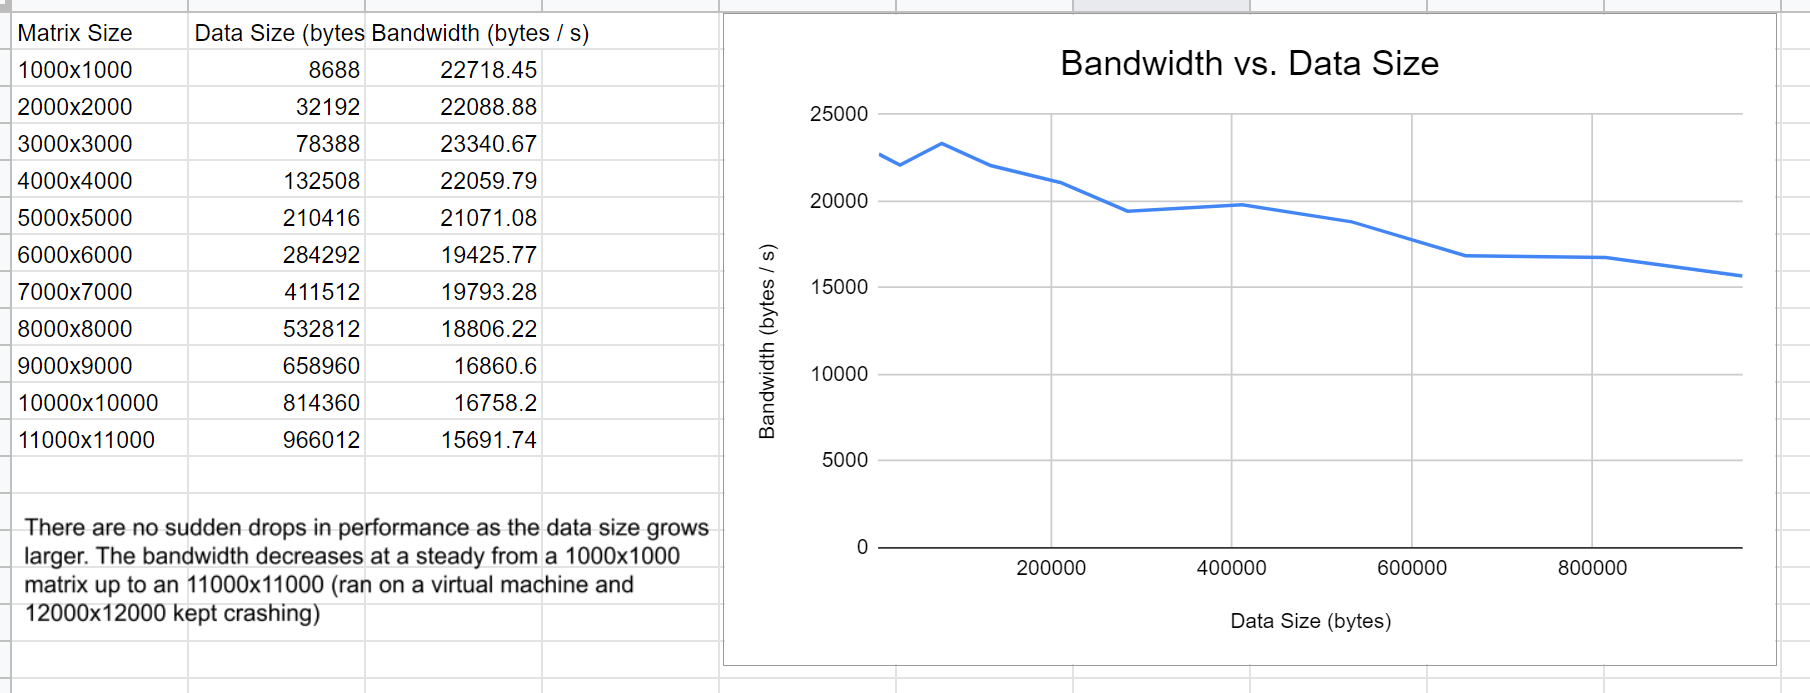
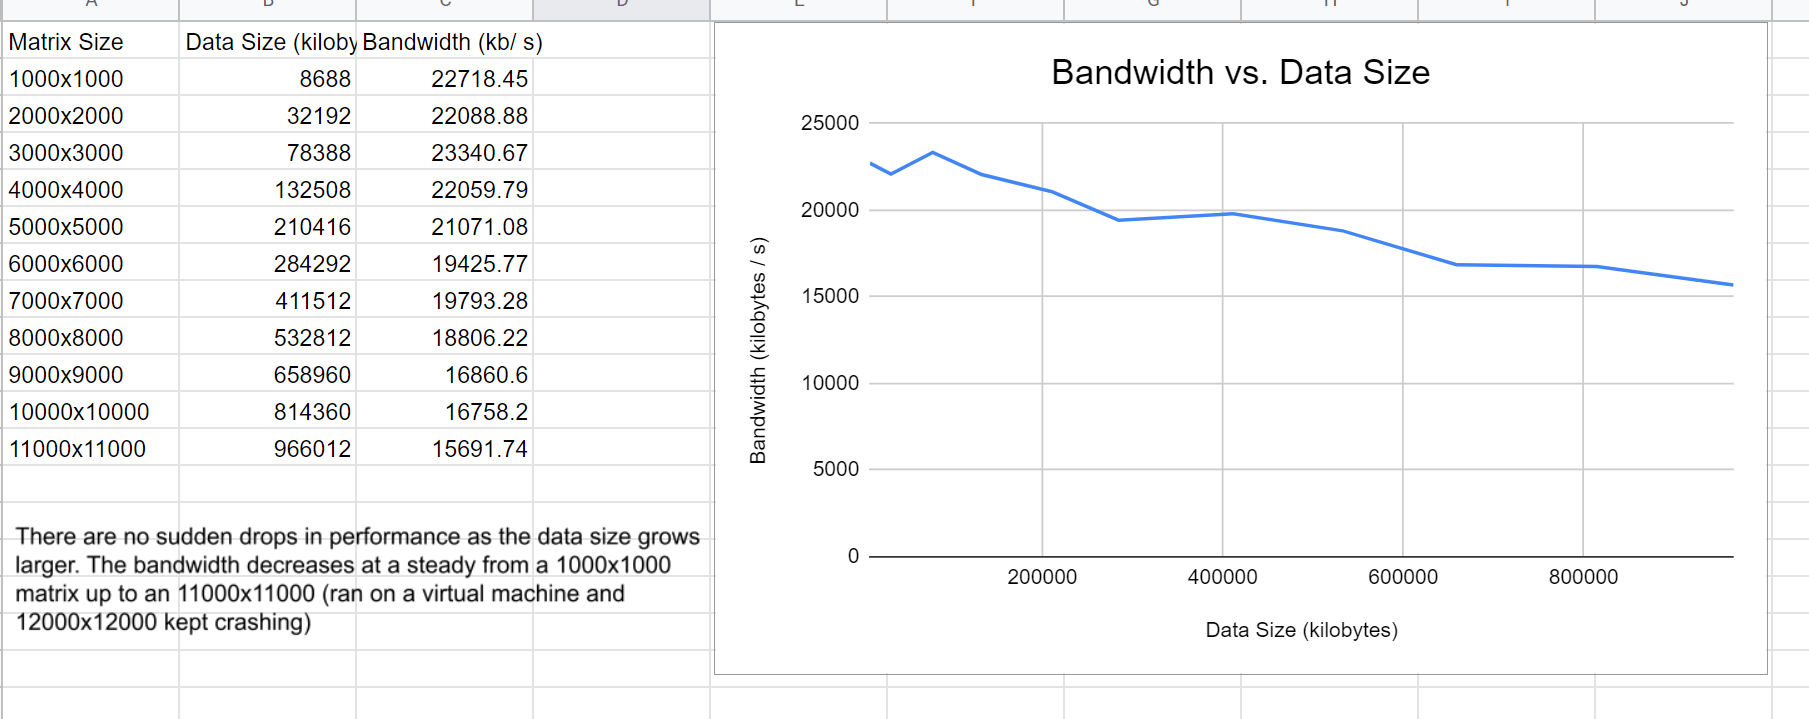
Add files via upload

diff --git a/project1.py b/project1.py
@@ -5,9 +5,6 @@ import matplotlib.pyplot as plt
 class Bandwidth:
     def __init__(self):
         self.arr = []
-        self.data_sizes = []
-        self.bandwidths = []
-        self.exec_times = []
 
     def __getSize(self, x):
         # Memory before creating matrix
@@ -24,8 +21,8 @@ class Bandwidth:
     def getBandwidth(self, matDimensions):
 
         size = self.__getSize(matDimensions)[1]
-        self.data_sizes.append(size)
-        print(f"Array Memory Size: {size} bytes")
+        print(f"Matrix Dimensions: {matDimensions}x{matDimensions}")
+        print(f"Array Memory Size: {size} kilobytes")
 
         start = timeit.default_timer()
         for i in range(matDimensions):
@@ -40,11 +37,8 @@ class Bandwidth:
         exec = end - start
         bandwidth = size / exec
 
-        self.exec_times.append(exec)
-        self.bandwidths.append(bandwidth)
-
         print(f"Exec time: {exec} seconds")
-        print(f"Memory Bandwidth: {bandwidth} bytes / second\n")
+        print(f"Memory Bandwidth: {bandwidth} kilobytes / second\n")
         self.__clear()
 
     def plot(self, sizes):
@@ -57,9 +51,10 @@ class Bandwidth:
 
 sizes = [4000, 5000, 6000, 7000, 8000, 9000]
 test = Bandwidth()
-test.getBandwidth(12000)
+test.getBandwidth(1000)
 
 # when looping through the matrix sizes we get smaller data sizes and faster execution times
-# running each matrix size individually seems to be more accurate
+# running each matrix size individually, as seen on line 60, seems to be a more accurate representation
+# of it running with no data reuse
 # for i in sizes:
     # test.getBandwidth(i)
